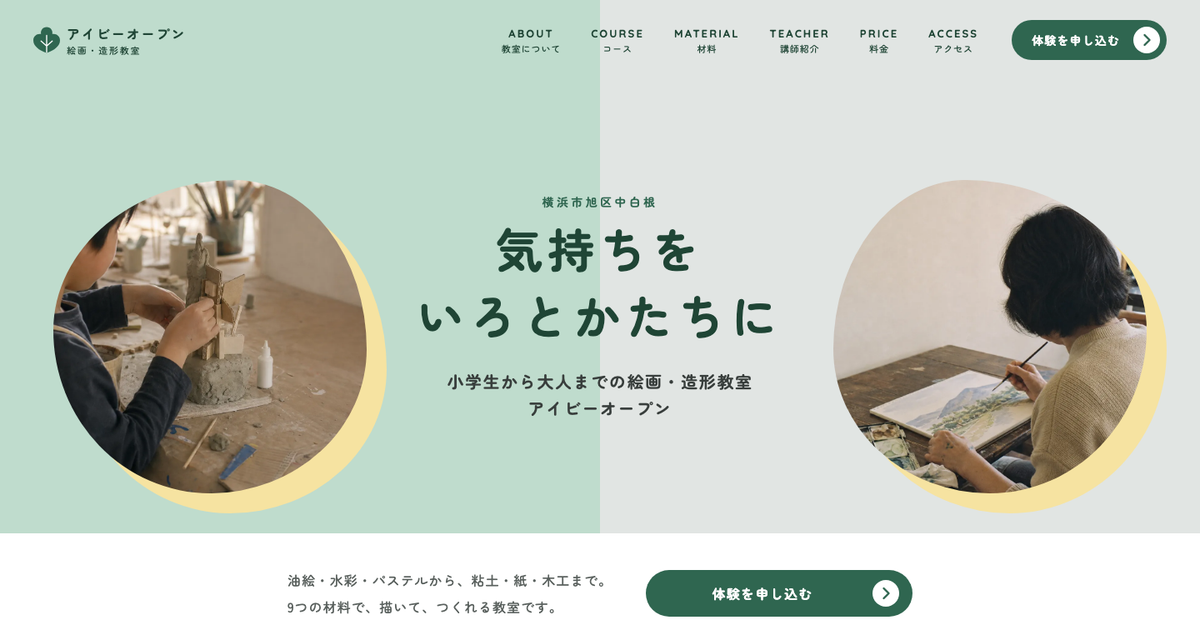
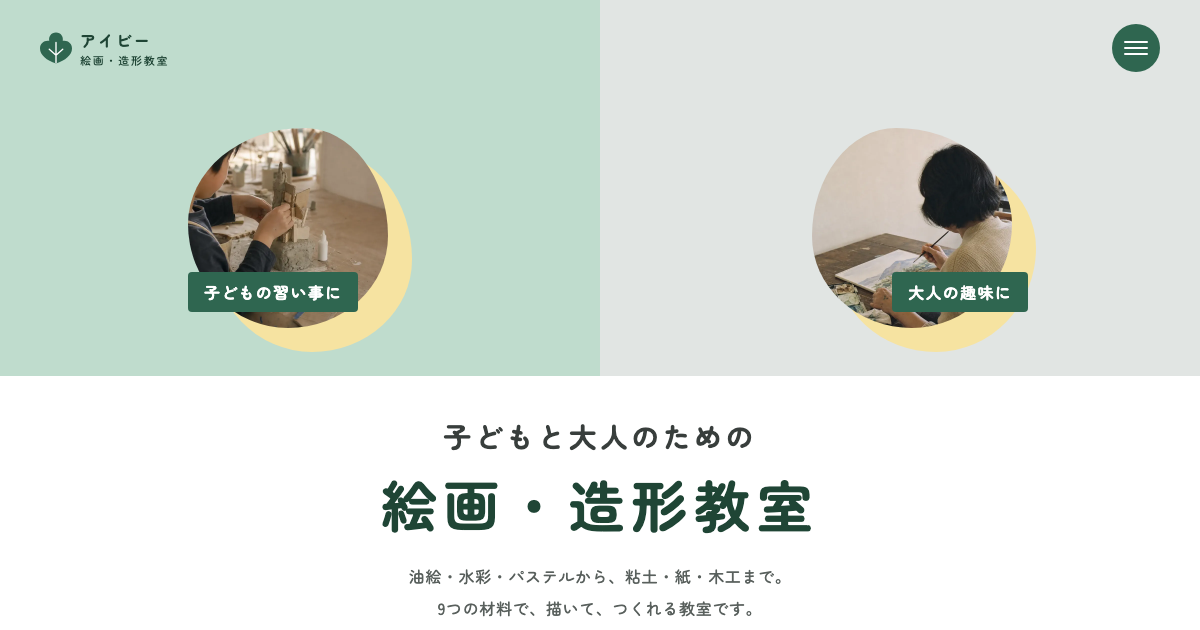
教室名を「絵画・造形教室アイビー」に直す（アイビーオープン→アイビー）

diff --git a/index.html b/index.html
@@ -4,17 +4,17 @@
 <meta charset="utf-8">
 <meta name="viewport" content="width=device-width, initial-scale=1">
 <meta name="robots" content="noindex,nofollow">
-<title>横浜市旭区中白根の絵画教室・造形教室｜アイビーオープン</title>
+<title>横浜市旭区中白根の絵画教室・造形教室｜アイビー</title>
 <script>(function(d){try{if(matchMedia("(prefers-reduced-motion: reduce)").matches)return;d.classList.add("motion");var n=performance.getEntriesByType("navigation")[0];if(!sessionStorage.getItem("ivy2-intro")||(n&&n.type==="reload"))d.classList.add("intro");sessionStorage.setItem("ivy2-intro","1")}catch(e){}})(document.documentElement);</script>
 <meta name="description" content="横浜市旭区中白根の、小学生から大人までの絵画・造形教室">
 <link rel="icon" href="favicon.svg" type="image/svg+xml">
 <meta property="og:type" content="website">
-<meta property="og:title" content="横浜市旭区中白根の絵画教室・造形教室｜アイビーオープン">
+<meta property="og:title" content="横浜市旭区中白根の絵画教室・造形教室｜アイビー">
 <meta property="og:description" content="横浜市旭区中白根の、小学生から大人までの絵画・造形教室">
 <meta property="og:url" content="https://mai25milk-web.github.io/ivy-open-site-2/">
 <meta property="og:image" content="https://mai25milk-web.github.io/ivy-open-site-2/assets/img/ogp.png">
 <meta name="twitter:card" content="summary_large_image">
-<script type="application/ld+json">{"@context":"https://schema.org","@type":"LocalBusiness","name":"アイビーオープン","description":"横浜市旭区中白根の、小学生から大人までの絵画・造形教室","address":{"@type":"PostalAddress","addressRegion":"神奈川県","addressLocality":"横浜市旭区","streetAddress":"中白根2-13-32 金子ハイツC-101"},"sameAs":["https://www.instagram.com/painting.art.class/"]}</script>
+<script type="application/ld+json">{"@context":"https://schema.org","@type":"LocalBusiness","name":"アイビー","description":"横浜市旭区中白根の、小学生から大人までの絵画・造形教室","address":{"@type":"PostalAddress","addressRegion":"神奈川県","addressLocality":"横浜市旭区","streetAddress":"中白根2-13-32 金子ハイツC-101"},"sameAs":["https://www.instagram.com/painting.art.class/"]}</script>
 <link rel="preconnect" href="https://fonts.googleapis.com">
 <link rel="preconnect" href="https://fonts.gstatic.com" crossorigin>
 <link rel="stylesheet" href="https://fonts.googleapis.com/css2?family=Quicksand:wght@700&amp;family=Zen+Maru+Gothic:wght@500;700&amp;display=swap">
@@ -42,13 +42,13 @@
   </defs>
 </svg>
 
-<div class="curtain" aria-hidden="true"><i class="curtain__p curtain__p--l"></i><i class="curtain__p curtain__p--r"></i><p class="curtain__mark"><svg class="curtain__leaf"><use href="#i-leaf"/></svg><span class="curtain__sub">絵画・造形教室</span><span class="curtain__name">アイビーオープン</span></p></div>
+<div class="curtain" aria-hidden="true"><i class="curtain__p curtain__p--l"></i><i class="curtain__p curtain__p--r"></i><p class="curtain__mark"><svg class="curtain__leaf"><use href="#i-leaf"/></svg><span class="curtain__sub">絵画・造形教室</span><span class="curtain__name">アイビー</span></p></div>
 <header class="hdr">
   <div class="hdr__in">
     <a class="logo" href="#top">
       <svg class="logo__mark" aria-hidden="true"><use href="#i-leaf"/></svg>
       <span class="logo__txt">
-        <span class="logo__name">アイビーオープン</span>
+        <span class="logo__name">アイビー</span>
         <span class="logo__sub">絵画・造形教室</span>
       </span>
     </a>
@@ -152,7 +152,7 @@
   <section class="sec point">
     <div class="wrap">
       <div class="sec-head">
-        <h2 class="ttl">アイビーオープンの特徴</h2>
+        <h2 class="ttl">アイビーの特徴</h2>
       </div>
       <div class="points">
         <article class="pt">
@@ -322,7 +322,7 @@
     <div class="ftr__brand">
       <a class="logo" href="#top">
         <svg class="logo__mark" aria-hidden="true"><use href="#i-leaf"/></svg>
-        <span class="logo__txt"><span class="logo__name">アイビーオープン</span><span class="logo__sub">絵画・造形教室</span></span>
+        <span class="logo__txt"><span class="logo__name">アイビー</span><span class="logo__sub">絵画・造形教室</span></span>
       </a>
       <p class="ftr__addr">横浜市旭区中白根2-13-32 金子ハイツC-101<br>（古道カフェ ヱンルゥト 内）</p>
     </div>
@@ -344,7 +344,7 @@
   </div>
   <div class="wrap ftr__bottom">
     <p><a href="https://artewald.com/" target="_blank" rel="noopener">運営：リーゼ（Risee）</a></p>
-    <p>© アイビーオープン</p>
+    <p>© アイビー</p>
   </div>
 </footer>
 

diff --git a/assets/css/style.css b/assets/css/style.css
@@ -1,4 +1,4 @@
-/* ② アイビーオープン TOP：くすんだ緑（メイン）＋淡い黄色（アクセント）＋グレー。アーチの写真と広い余白 */
+/* ② アイビー TOP：くすんだ緑（メイン）＋淡い黄色（アクセント）＋グレー。アーチの写真と広い余白 */
 :root{
   --s4:4px;--s8:8px;--s16:16px;--s24:24px;--s32:32px;--s40:40px;--s48:48px;--s56:56px;--s64:64px;--s72:72px;--s80:80px;--s96:96px;--s120:120px;--s160:160px;
   --main:#bfdccd;      /* 面の色（文字は乗せない） */

diff --git a/404.html b/404.html
@@ -4,7 +4,7 @@
 <meta charset="utf-8">
 <meta name="viewport" content="width=device-width, initial-scale=1">
 <meta name="robots" content="noindex,nofollow">
-<title>ページが見つかりません｜アイビーオープン</title>
+<title>ページが見つかりません｜アイビー</title>
 <link rel="icon" href="/ivy-open-site-2/favicon.svg" type="image/svg+xml">
 <link rel="preconnect" href="https://fonts.googleapis.com">
 <link rel="preconnect" href="https://fonts.gstatic.com" crossorigin>
